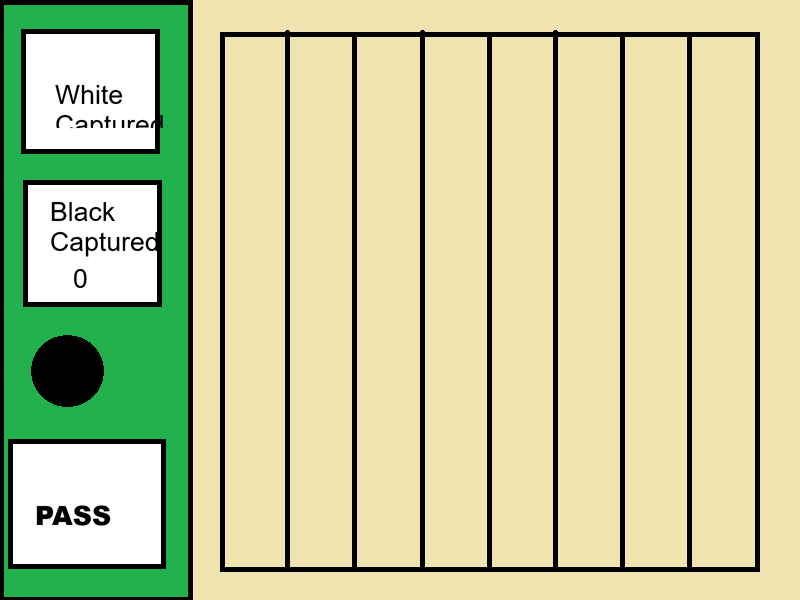
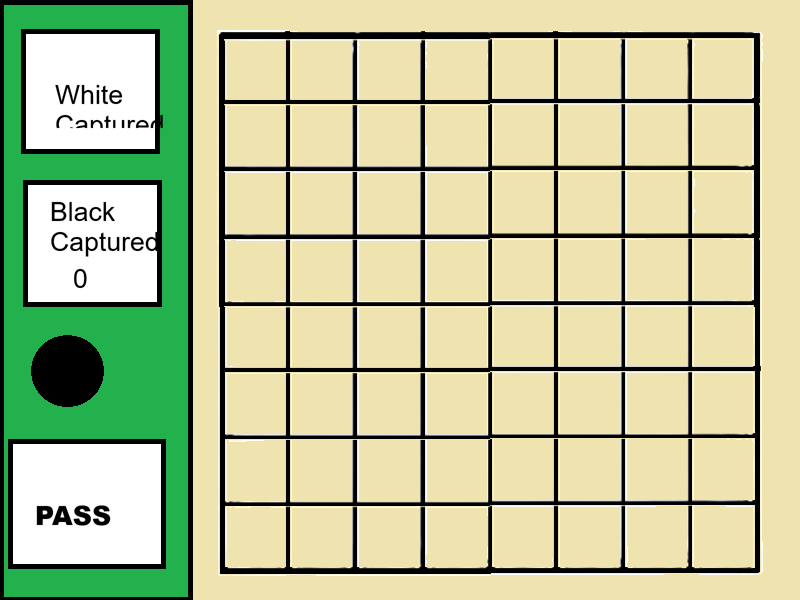
this box is pain and agony

Changed region(s): [[0.2812, 0.03, 0.9688, 0.96]]

diff --git a/drawing.py b/drawing.py
@@ -11,8 +11,8 @@ class Drawer:
         self.screen = pygame.display.set_mode((self.WIDTH, self.HEIGHT))
         self.clock = pygame.time.Clock()
         self.board = board
-        self.__bg = pygame.image.load("board.png")
-        self.set_board_params( (228, 25), (760, 569))
+        self.__bg = pygame.image.load("board_2.png")
+        self.set_board_params( (220, 30), (760, 575))
         pygame.init()
 
     def set_board_params(self, start_coord: tuple, end_coord: tuple):
@@ -53,9 +53,9 @@ class Drawer:
 
 
 
-        size_square = (self.end_coord[0] - self.start_coord[0]) // self.board.get_size()
-        boxx = (pygame.mouse.get_pos()[0] // size_square) * size_square
-        boxy = (pygame.mouse.get_pos()[1] // size_square) * size_square
+        size_square = (self.end_coord[0] - self.start_coord[0]) // (self.board.get_size()-1)
+        boxx = (pygame.mouse.get_pos()[0] // size_square) * size_square + 5
+        boxy = (pygame.mouse.get_pos()[1] // size_square) * size_square + 20
         box = pygame.Rect(boxx,boxy,30,30)
         if pygame.mouse.get_pos()[0] < self.start_coord[0] or pygame.mouse.get_pos()[1] > self.end_coord[1]:
             return

diff --git a/main.py b/main.py
@@ -3,6 +3,8 @@ from game import *
 
 def main():
     wb = Board(9)
+    # she is lying
+    # lies and deceit
     print(wb)
     testing = False
     t = True

diff --git a/window.py b/window.py
@@ -21,7 +21,7 @@ def init_game():
     running = True
     dt = 0
     player_pos = pygame.Vector2(300, 400)
-    bg = pygame.image.load("board.png")
+    bg = pygame.image.load("board_2.png")
     circles = []
     working_board = None
 